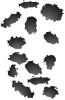
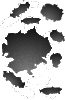
Added more debris, debris shading, and a background image

diff --git a/js/ring.js b/js/ring.js
@@ -67,13 +67,15 @@ game.ringMethods = {
         var spaceAngle = extraSpace / (debrisPerSection + 1);
         
         // Fill in the debris
+        var mid = (debrisPerSection - 1) / 2;
         for (var i = 0; i < wheel.runesPerRing; i++) {
             var angle = i * wheel.angle + (rockAngle / 2 + spaceAngle + debrisAngle / 2) * Math.PI / 180;
             for (var j = 0; j < debrisPerSection; j++) {
                 var a = angle + j * (spaceAngle + debrisAngle) * Math.PI / 180;
                 list.push({
                     dir: game.math.Vector(Math.cos(a), Math.sin(a)),
-                    sprite: game.images.get('debris' + game.math.rand(game.value.DEBRIS_COUNT))
+                    sprite: game.images.get('debris' + game.math.rand(game.value.DEBRIS_COUNT)),
+                    alpha: 0.3 + 0.4 * Math.abs(j - mid) / mid
                 });
             }
         }
@@ -123,6 +125,7 @@ game.ringMethods = {
         // Draw the debris
         for (var debrisIndex in this.debris) {
             var debris = this.debris[debrisIndex];
+            ctx.globalAlpha = debris.alpha;
             ctx.transform(debris.dir.x, debris.dir.y, -debris.dir.y, debris.dir.x, ctx.canvas.width / 2, ctx.canvas.height / 2);
             ctx.drawImage(
                 debris.sprite, 
@@ -133,6 +136,7 @@ game.ringMethods = {
             );
             ctx.setTransform(1, 0, 0, 1, 0, 0);
         }
+        ctx.globalAlpha = 1;
         
         // Draws the runes
         game.applyMethodList(this.runes, 'draw', ctx);

diff --git a/js/main.js b/js/main.js
@@ -96,6 +96,7 @@ game.setup = function() {
     this.images.load('switch');
     this.images.load('wheel');
     this.images.load('center');
+    this.images.load('gameBackground');
     var i;
     for (i = 1; i <= 4; i++) {
         this.images.load('titleImage' + i);
@@ -123,10 +124,6 @@ game.update = function() {
     // Update the screen
     this.screen.update();
     
-    // Clear the canvas
-    this.canvasCtx.fillStyle = 'black';
-    this.canvasCtx.fillRect(0, 0, this.canvas.width, this.canvas.height);
-    
     // Update music
     if (this.activeSong != this.screen.song) {
         if (this.activeSong !== undefined) {
@@ -145,6 +142,15 @@ game.update = function() {
     if (this.activeSong === this.screen.song && this.activeSong !== undefined && this.music[this.activeSong].volume < 1) {
         this.music[this.activeSong].volume = Math.min(1, this.music[this.activeSong].volume + 0.01);
     }
+    
+    // Draw the background
+    var bg = this.images.get('gameBackground');
+    var sy = this.canvasCtx.canvas.height / bg.height;
+    var sx = this.canvasCtx.canvas.width / bg.width;
+    var s = Math.max(sx, sy);
+    var dx = (this.canvasCtx.canvas.width - bg.width * s) / 2;
+    var dy = (this.canvasCtx.canvas.height - bg.height * s) / 2;
+    this.canvasCtx.drawImage(bg, dx, dy, bg.width * s, bg.height * s);
     
     // Draw the screen
     this.screen.draw(this.canvasCtx);

diff --git a/js/gameScreen.js b/js/gameScreen.js
@@ -20,6 +20,7 @@ game.gameScreen = {
     // setting up mouse event handlers
     setup: function() {
         this.generate();
+        this.background = game.images.get('gameBackground');
         game.mouseup = this.applyMouseUp.bind(this);
         game.mouseout = this.applyMouseOut.bind(this);
         game.mousedown = this.applyMouseDown.bind(this);

diff --git a/js/const.js b/js/const.js
@@ -16,7 +16,7 @@ game.value = {
     
     // Number of rock sprites
     ROCK_COUNT: 6,
-    DEBRIS_COUNT: 3,
+    DEBRIS_COUNT: 6,
     
     // Available colors for switches
     SWITCH_COLORS: [
